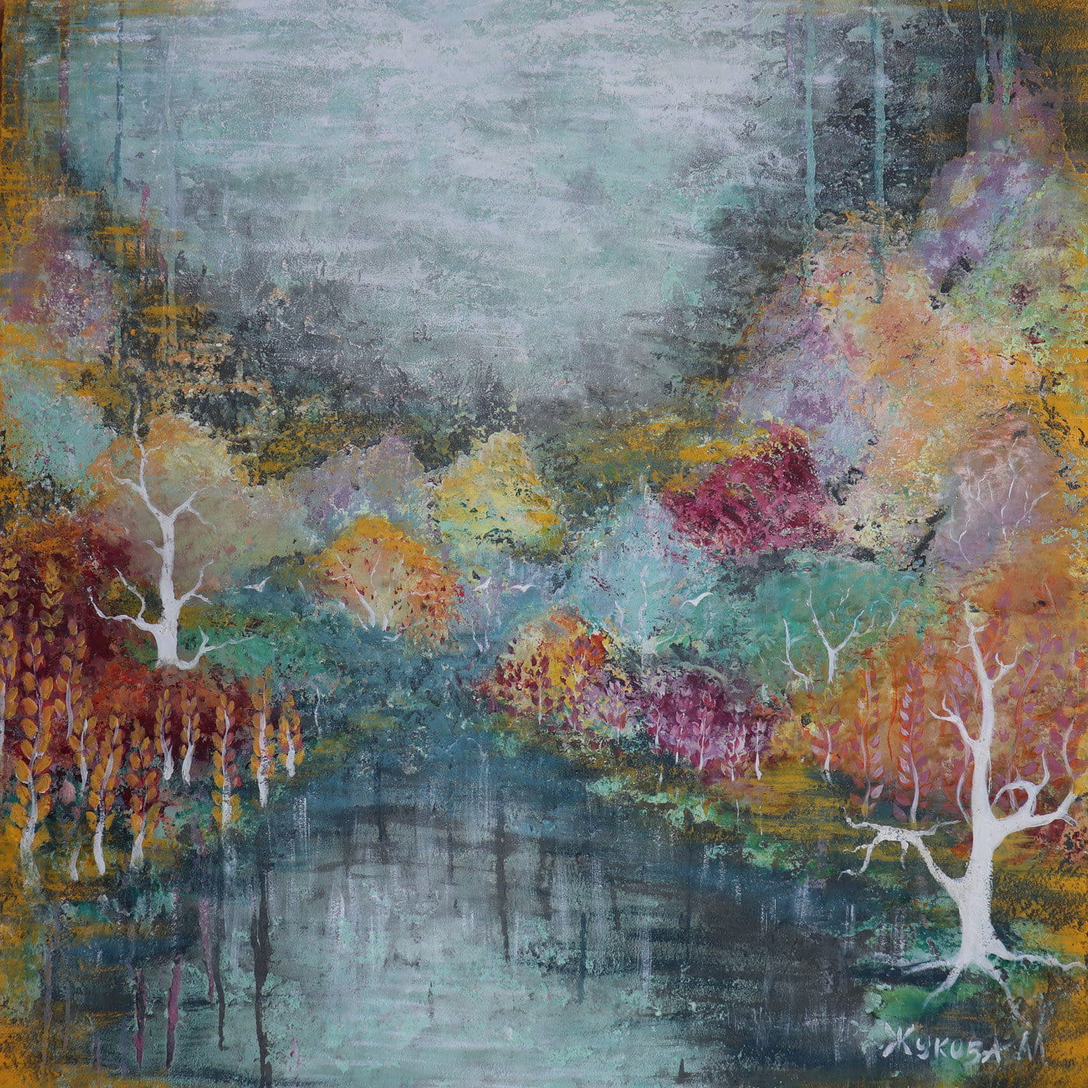
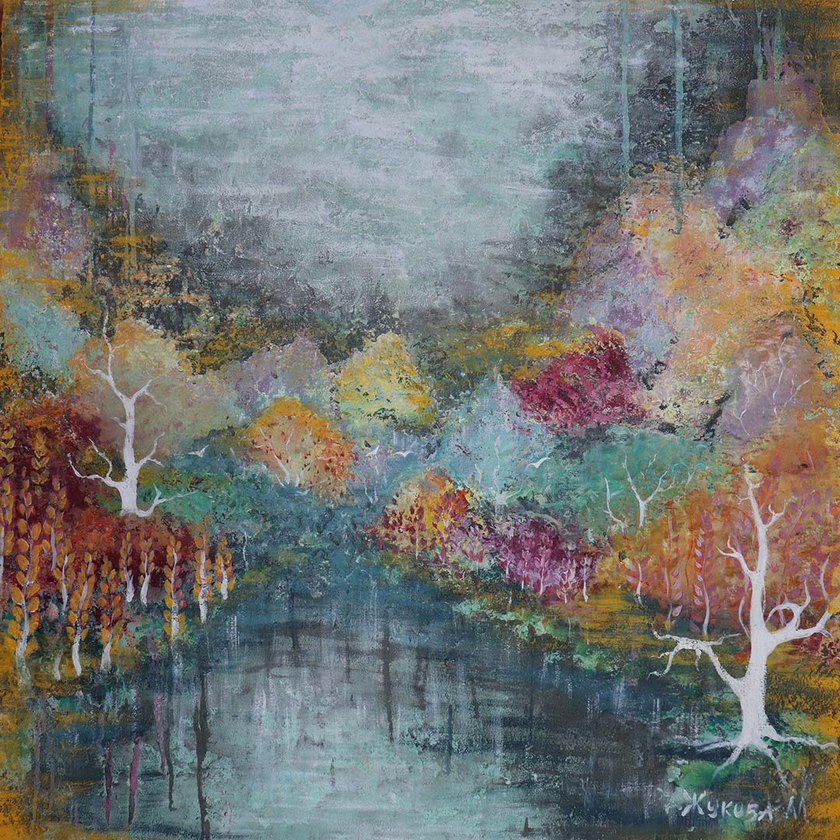
адаптивные изображения

Changed region(s): [[0.55, 0.5806, 0.5806, 0.6417], [0.7028, 0.3972, 0.7333, 0.4278]]

diff --git a/paintings.html b/paintings.html
@@ -53,12 +53,12 @@
               </li>
               <li class="navigation__item current">
                 <a class="navigation__link" href="./paintings.html"
-                  ><img class="navigation__icon" src="./images/easel.png" alt="азбука"
+                  ><img class="navigation__icon" src="./images/palette.png" alt="азбука"
                 /></a>
               </li>
               <li class="navigation__item">
                 <a class="navigation__link" href="./gallery.html"
-                  ><img class="navigation__icon" src="./images/palette.png" alt="азбука"
+                  ><img class="navigation__icon" src="./images/easel.png" alt="азбука"
                 /></a>
               </li>
             </ul>
@@ -105,34 +105,74 @@
         <div class="gallery-container container">
           <ul class="gallery list">
             <li class="gallery__item" data-aos="fade-up">
-              <img src="./images/portfolio/painting-1.jpg" alt="картина" />
+              <img
+                srcset="./images/portfolio/painting-1.jpg 1x, ./images/portfolio/painting-1@2x.jpg 2x"
+                src="./images/portfolio/painting-1.jpg"
+                alt="картина"
+              />
             </li>
             <li class="gallery__item" data-aos="fade-up">
-              <img src="./images/portfolio/painting-2.jpg" alt="картина" />
+              <img
+                srcset="./images/portfolio/painting-2.jpg 1x, ./images/portfolio/painting-2@2x.jpg 2x"
+                src="./images/portfolio/painting-2.jpg"
+                alt="картина"
+              />
             </li>
             <li class="gallery__item" data-aos="fade-up">
-              <img src="./images/portfolio/painting-3.jpg" alt="картина" />
+              <img
+                srcset="./images/portfolio/painting-3.jpg 1x, ./images/portfolio/painting-3@2x.jpg 2x"
+                src="./images/portfolio/painting-3.jpg"
+                alt="картина"
+              />
             </li>
             <li class="gallery__item" data-aos="fade-up">
-              <img src="./images/portfolio/painting-4.jpg" alt="картина" />
+              <img
+                srcset="./images/portfolio/painting-4.jpg 1x, ./images/portfolio/painting-4@2x.jpg 2x"
+                src="./images/portfolio/painting-4.jpg"
+                alt="картина"
+              />
             </li>
             <li class="gallery__item" data-aos="fade-up">
-              <img src="./images/portfolio/painting-5.jpg" alt="картина" />
+              <img
+                srcset="./images/portfolio/painting-5.jpg 1x, ./images/portfolio/painting-5@2x.jpg 2x"
+                src="./images/portfolio/painting-5.jpg"
+                alt="картина"
+              />
             </li>
             <li class="gallery__item" data-aos="fade-up">
-              <img src="./images/portfolio/painting-6.jpg" alt="картина" />
+              <img
+                srcset="./images/portfolio/painting-6.jpg 1x, ./images/portfolio/painting-6@2x.jpg 2x"
+                src="./images/portfolio/painting-6.jpg"
+                alt="картина"
+              />
             </li>
             <li class="gallery__item" data-aos="fade-up">
-              <img src="./images/portfolio/painting-7.jpg" alt="картина" />
+              <img
+                srcset="./images/portfolio/painting-7.jpg 1x, ./images/portfolio/painting-7@2x.jpg 2x"
+                src="./images/portfolio/painting-7.jpg"
+                alt="картина"
+              />
             </li>
             <li class="gallery__item" data-aos="fade-up">
-              <img src="./images/portfolio/painting-8.jpg" alt="картина" />
+              <img
+                srcset="./images/portfolio/painting-8.jpg 1x, ./images/portfolio/painting-8@2x.jpg 2x"
+                src="./images/portfolio/painting-8.jpg"
+                alt="картина"
+              />
             </li>
             <li class="gallery__item" data-aos="fade-up">
-              <img src="./images/portfolio/painting-9.jpg" alt="картина" />
+              <img
+                srcset="./images/portfolio/painting-9.jpg 1x, ./images/portfolio/painting-9@2x.jpg 2x"
+                src="./images/portfolio/painting-9.jpg"
+                alt="картина"
+              />
             </li>
             <li class="gallery__item" data-aos="fade-up">
-              <img src="./images/portfolio/painting-10.jpg" alt="картина" />
+              <img
+                srcset="./images/portfolio/painting-10.jpg 1x, ./images/portfolio/painting-10@2x.jpg 2x"
+                src="./images/portfolio/painting-10.jpg"
+                alt="картина"
+              />
             </li>
           </ul>
         </div>

diff --git a/gallery.html b/gallery.html
@@ -53,12 +53,12 @@
               </li>
               <li class="navigation__item">
                 <a class="navigation__link" href="./paintings.html"
-                  ><img class="navigation__icon" src="./images/easel.png" alt="азбука"
+                  ><img class="navigation__icon" src="./images/palette.png" alt="азбука"
                 /></a>
               </li>
               <li class="navigation__item current">
                 <a class="navigation__link" href="./gallery.html"
-                  ><img class="navigation__icon" src="./images/palette.png" alt="азбука"
+                  ><img class="navigation__icon" src="./images/easel.png" alt="азбука"
                 /></a>
               </li>
             </ul>

diff --git a/alphabet.html b/alphabet.html
@@ -53,12 +53,12 @@
               </li>
               <li class="navigation__item">
                 <a class="navigation__link" href="./paintings.html"
-                  ><img class="navigation__icon" src="./images/easel.png" alt="азбука"
+                  ><img class="navigation__icon" src="./images/palette.png" alt="азбука"
                 /></a>
               </li>
               <li class="navigation__item">
                 <a class="navigation__link" href="./gallery.html"
-                  ><img class="navigation__icon" src="./images/palette.png" alt="азбука"
+                  ><img class="navigation__icon" src="./images/easel.png" alt="азбука"
                 /></a>
               </li>
             </ul>

diff --git a/index.html b/index.html
@@ -53,12 +53,12 @@
               </li>
               <li class="navigation__item">
                 <a class="navigation__link" href="./paintings.html"
-                  ><img class="navigation__icon" src="./images/easel.png" alt="азбука"
+                  ><img class="navigation__icon" src="./images/palette.png" alt="азбука"
                 /></a>
               </li>
               <li class="navigation__item">
                 <a class="navigation__link" href="./gallery.html"
-                  ><img class="navigation__icon" src="./images/palette.png" alt="азбука"
+                  ><img class="navigation__icon" src="./images/easel.png" alt="азбука"
                 /></a>
               </li>
             </ul>

diff --git a/letters.html b/letters.html
@@ -53,12 +53,12 @@
               </li>
               <li class="navigation__item">
                 <a class="navigation__link" href="./paintings.html"
-                  ><img class="navigation__icon" src="./images/easel.png" alt="азбука"
+                  ><img class="navigation__icon" src="./images/palette.png" alt="азбука"
                 /></a>
               </li>
               <li class="navigation__item">
                 <a class="navigation__link" href="./gallery.html"
-                  ><img class="navigation__icon" src="./images/palette.png" alt="азбука"
+                  ><img class="navigation__icon" src="./images/easel.png" alt="азбука"
                 /></a>
               </li>
             </ul>
